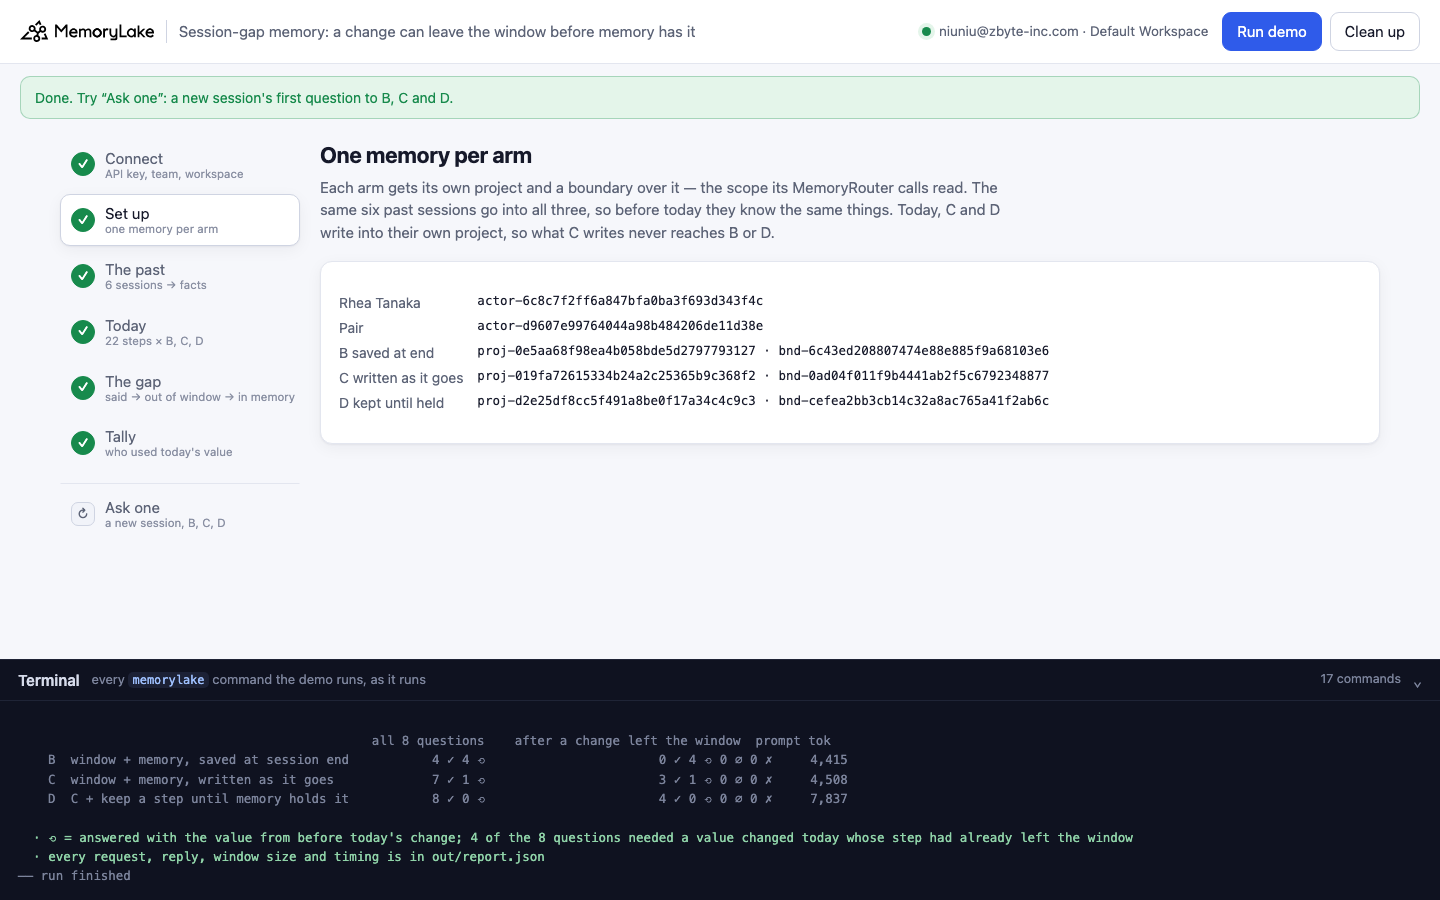
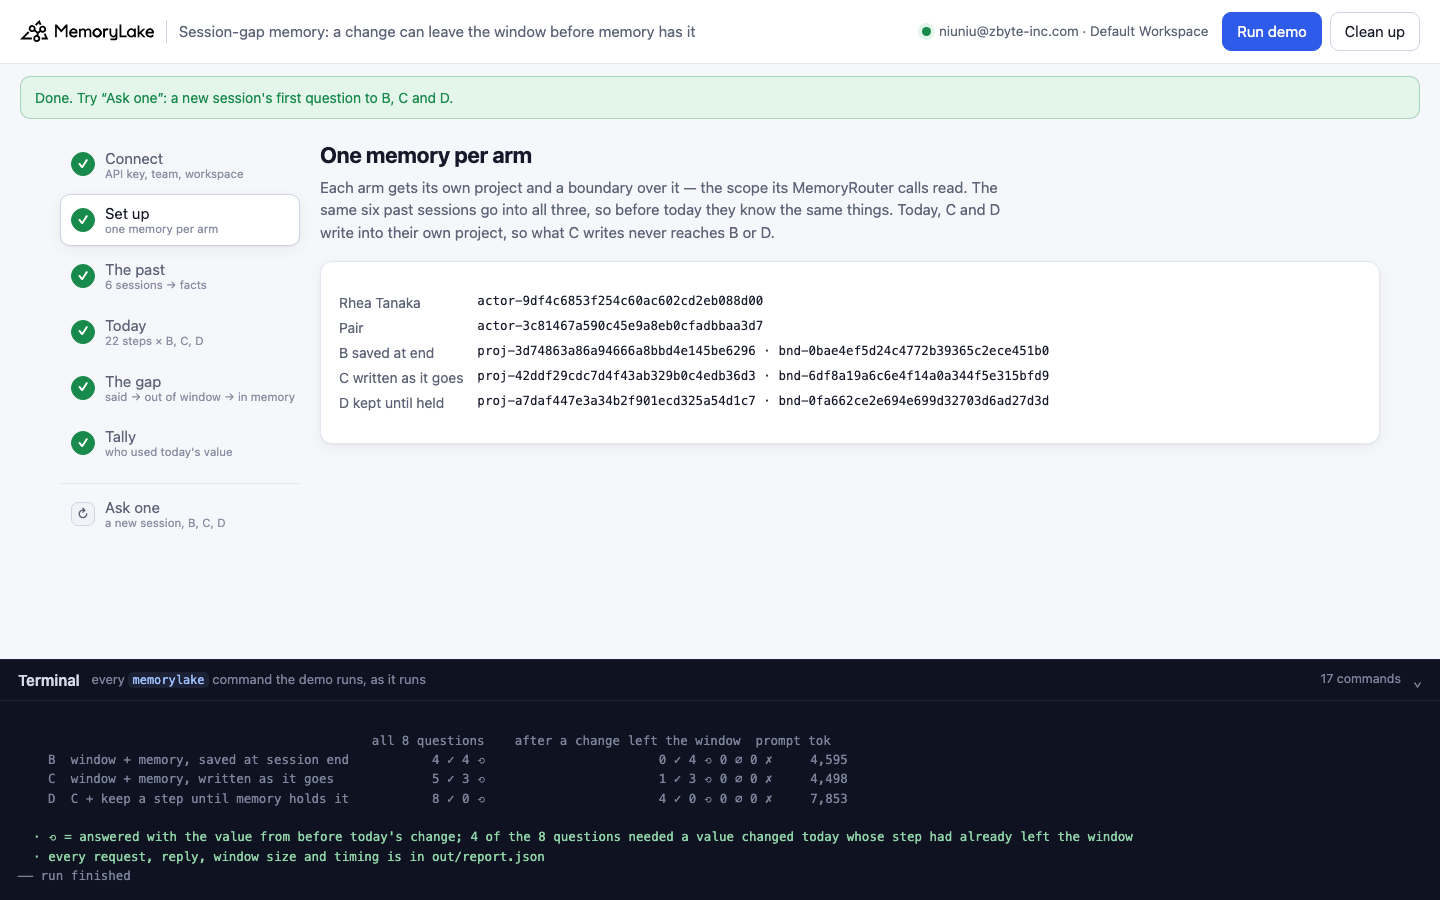
session-gap-memory: video links; measured over all 7 runs

diff --git a/session-gap-memory/README.md b/session-gap-memory/README.md
@@ -4,7 +4,8 @@ A runnable version of the MemoryLake use case
 [*Session Memory vs Persistent Memory: An Architectural Guide*](https://www.memorylake.ai/en/usecase/session-memory-vs-persistent-memory-for-ai),
 built entirely on the [`memorylake` CLI](https://github.com/memorylake-ai/memorylake-cli) (v20261015 or later).
 
-**Watch it run:** videos are being recorded.
+**Watch it run:** [CLI, 6:39](https://github.com/memorylake-ai/memorylake-usecases/releases/download/session-gap-memory-v1/session-gap-memory-cli-demo.mp4) · [Web, 7:14](https://github.com/memorylake-ai/memorylake-usecases/releases/download/session-gap-memory-v1/session-gap-memory-web-demo.mp4)
+([release](https://github.com/memorylake-ai/memorylake-usecases/releases/tag/session-gap-memory-v1); GitHub serves them as downloads). Both are real, unedited runs from a clean account and are counted in the Measured table below: in the CLI one extraction beat the window and C was right every time, in the Web one it did not.
 
 **The problem.** A common design keeps a short window of the current session in the prompt (session memory) and lets
 retrieval bring back everything older (persistent memory). It works for things agreed weeks ago. It breaks for things
@@ -43,10 +44,11 @@ asks each arm's memory directly (`fact list --query`) which value it holds at th
 each new value first shows up.
 
 <!-- measured-summary -->
-Over the 4 runs counted below, B answered all 16 questions about a change that had already left the window
-with the value from before the change. C got 11 of 16 right and 5 with the old value, depending on whether extraction
-beat the window that time (it reached C's memory between 10 s before and 35 s after the step left the window).
-D got all 16, carrying up to 15 extra steps and 1.55–1.74× C's prompt tokens.
+Over the 7 runs counted below, B answered all 28 questions about a change that had already left the window
+with the value from before the change. C got 20 of 28 right and 8 with the old value, depending on whether extraction
+beat the window that time (in the runs measured with the final reading rule, it reached C's memory between
+11 s before and 37 s after the step left the window).
+D got all 28, carrying up to 15 extra steps and 1.47–1.75× C's prompt tokens.
 <!-- /measured-summary -->
 
 ## What it shows
@@ -56,12 +58,13 @@ D got all 16, carrying up to 15 extra steps and 1.55–1.74× C's prompt tokens.
   agent uses it without hesitation: `5433`, `make test-ledger`, Tomasz Ilic.
 - **Saving at session end is wrong inside the session, every time.** B answered every question about a change that
   had left the window with the pre-change value. Its memory is right only for the next session.
-- **Writing as you go is a race.** C's memory picked up each change 15–35 seconds after it left the window in some
-  runs and before it in others. The same question got the old value at +37 s in one run and the new one in the
-  next. The demo prints, for each change, when it was said, when it left the window and when it reached memory.
+- **Writing as you go is a race.** In the Web recording each change reached C's memory 31–37 seconds after it left
+  the window, and C answered three of four such questions with the old value; in the CLI recording extraction was
+  faster than the window and C was right every time. The demo prints, for each change, when it was said, when it left
+  the window and when it reached memory.
 - **The fix is to drop from the window only what memory holds.** D was right on every question. The price is prompt
   size: `cook-status` is one flag for the whole conversation, and while an agent keeps appending it rarely reports
-  finished, so D carried up to 15 extra steps (1.55–1.74× C's prompt tokens over the session).
+  finished, so D carried up to 15 extra steps (1.47–1.75× C's prompt tokens over the session).
 - **Extraction revises facts the way they were written, not the way you think of them.** In one run D's memory
   held "the test command is `make test-ledger`, and it expects a local Postgres on port 5433" as one fact. Today's
   session revised it to port 6543 and left `make test-ledger` in it; the new command reached memory only through
@@ -181,6 +184,8 @@ answer them from memory.
 
 ### Step 5: the gap
 
+From the first run (its gap times are upper bounds, see ¹ under Measured):
+
 ```
     Each change: when Rhea said it, when it left the 6-step window, when it reached memory.
         change                                      said  left window  in C memory  in D memory   gap (C)
@@ -223,13 +228,21 @@ lost it first). "Past values" is how many of the seven agreed values step 3 foun
 
 | run | past values | B after the window | C after the window | D after the window | gap in C (s) | D's most extra steps | prompt tokens B · C · D |
 |---|---|---|---|---|---|---|---|
-| first run (built) | 7/7 | 0 ✓ · 4 ⟲ | 2 ✓ · 2 ⟲ | 4 ✓ · 0 ⟲ | +25.2 · +19.8 · +15.0 | 15 | 4,542 · 4,905 · 7,605 |
-| second run (B reused, C and D rebuilt) | 7/7 | 0 ✓ · 4 ⟲ | 2 ✓ · 2 ⟲ | 4 ✓ · 0 ⟲ | +35.2 · +29.7 · +24.9 | 15 | 4,511 · 4,872 · 7,549 |
-| `--reset` | 6/7 | 0 ✓ · 4 ⟲ | 4 ✓ · 0 ⟲ | 4 ✓ · 0 ⟲ | +6.7 · +0.4 · -0.4 | 15 | 4,446 · 4,731 · 7,512 |
-| browser check (built) | 7/7 | 0 ✓ · 4 ⟲ | 3 ✓ · 1 ⟲ | 4 ✓ · 0 ⟲ | -2.5 · -9.8 · +12.8 | 15 | 4,415 · 4,508 · 7,837 |
-| **total (4 runs)** | | **0 ✓ · 16 ⟲** | **11 ✓ · 5 ⟲** | **16 ✓ · 0 ⟲** | -10 to +35 | 15 | D = 1.55–1.74× C |
+| first run (built) | 7/7 | 0 ✓ · 4 ⟲ | 2 ✓ · 2 ⟲ | 4 ✓ · 0 ⟲ | +25.2 · +19.8 · +15.0¹ | 15 | 4,542 · 4,905 · 7,605 |
+| second run (B reused, C and D rebuilt) | 7/7 | 0 ✓ · 4 ⟲ | 2 ✓ · 2 ⟲ | 4 ✓ · 0 ⟲ | +35.2 · +29.7 · +24.9¹ | 15 | 4,511 · 4,872 · 7,549 |
+| `--reset` | 6/7 | 0 ✓ · 4 ⟲ | 4 ✓ · 0 ⟲ | 4 ✓ · 0 ⟲ | +6.7 · +0.4 · -0.4¹ | 15 | 4,446 · 4,731 · 7,512 |
+| browser check (built) | 7/7 | 0 ✓ · 4 ⟲ | 3 ✓ · 1 ⟲ | 4 ✓ · 0 ⟲ | -2.5 · -9.8 · +12.8¹ | 15 | 4,415 · 4,508 · 7,837 |
+| CLI recording, first take (not published) | 7/7 | 0 ✓ · 4 ⟲ | 4 ✓ · 0 ⟲ | 4 ✓ · 0 ⟲ | +4.5 · -0.7 · +92.7¹ | 15 | 4,460 · 4,799 · 7,675 |
+| CLI recording | 7/7 | 0 ✓ · 4 ⟲ | 4 ✓ · 0 ⟲ | 4 ✓ · 0 ⟲ | -5.7 · -10.7 · +4.0 | 15 | 4,516 · 4,973 · 7,321 |
+| Web recording | 6/7 | 0 ✓ · 4 ⟲ | 1 ✓ · 3 ⟲ | 4 ✓ · 0 ⟲ | +37.2 · +31.6 · +30.7 | 15 | 4,595 · 4,498 · 7,853 |
+| **total (7 runs)** | | **0 ✓ · 28 ⟲** | **20 ✓ · 8 ⟲** | **28 ✓ · 0 ⟲** | -11 to +37 (runs without ¹) | 15 | D = 1.47–1.75× C |
 
-On the other questions (the change still in the window, or a convention that did not change) all three arms were right in every run: all eight questions, B 16/32 · C 27/32 · D 32/32.
+¹ These runs read each fact by the first value it names, so a fact such as "Tomasz is on leave, so reviews go to
+Priya Nair" counted as the old reviewer. That rule can only see a new value late, never early: their gap times are
+upper bounds, and their "memory: old" labels may hide a fact that already had the new value. From the CLI recording on,
+a fact is read up to "previously" and counts as new if it names the new value at all. The grades do not depend on it.
+
+On the other questions (the change still in the window, or a convention that did not change) all three arms were right in every run: all eight questions, B 28/56 · C 48/56 · D 56/56.
 <!-- /measured-table -->
 
 ## Use it in your own app
@@ -253,7 +266,7 @@ On the other questions (the change still in the window, or a convention that did
 | `MemoryRouter refused the call for lack of balance` | Router calls are billed; the memory steps still ran. Top up in the console. |
 | `still extracting after 420 s` | Extraction is slow right now; the run continues and the value check says what is missing. |
 | An agreed value shows `·` in step 3 | Extraction left it out, or wrote it in another language (it happens); the check reads English only. That arm may still answer it. |
-| C gets everything right | Extraction beat the window this time. Run again: the race goes both ways (see Measured). |
+| C gets everything right | Extraction beat the window this time (it did in 3 of 7 runs). Run again: the race goes both ways (see Measured). |
 | A change shows `—` in "in C memory" | It had not reached memory within 180 s after the last step. |
 
 ## Files

diff --git a/README.md b/README.md
@@ -147,7 +147,7 @@ that memory can hold once it is more than coding sessions.
 | [ruled-out-memory](ruled-out-memory/) | Engineering (ReAct agent loops) | An investigation agent's ReAct loop rules out four suspects for a checkout latency incident, finds a lead, and runs out of steps; the next run asks memory what was already established. Stored as a text scratchpad, extraction kept the lead in all 8 runs and the four rule-outs 0 of 32 times; the resumed plan re-checked dead ends 26 times in 96 picks. One `fact add` record per iteration: 0 re-checks, but asked about suspects nobody checked, the model said "already ruled out" 29 of 47 times; one coverage record ("nothing else is ruled out") brought that to 0 of 48. | ~4 min | [CLI 5:59](https://github.com/memorylake-ai/memorylake-usecases/releases/download/ruled-out-memory-v1/ruled-out-memory-cli-demo.mp4) · [Web 6:14](https://github.com/memorylake-ai/memorylake-usecases/releases/download/ruled-out-memory-v1/ruled-out-memory-web-demo.mp4) |
 | [prompt-cache-memory](prompt-cache-memory/) | Engineering (agent cost at scale) | A support assistant sends the same 1,300-token playbook with every request plus what it remembers about the customer. Retrieved memory placed in front of the playbook (B) and after it (C): exactly the same tokens on 72 of 72 questions and the same accuracy, but C was read from the provider's prompt cache 70 of 72 times, and B only on repeats of a request sent minutes earlier (0 of 58 otherwise). Priced from `router models`: B 202, C 134, MemoryRouter `--boundary` 130 USD per million calls. | ~3 min | [CLI 4:35](https://github.com/memorylake-ai/memorylake-usecases/releases/download/prompt-cache-memory-v1/prompt-cache-memory-cli-demo.mp4) · [Web 5:00](https://github.com/memorylake-ai/memorylake-usecases/releases/download/prompt-cache-memory-v1/prompt-cache-memory-web-demo.mp4) |
 | [history-window-memory](history-window-memory/) | Engineering (token bloat from stuffed history) | A purchasing assistant's thread holds ten past sessions of supplier agreements; today's 16-turn session runs three ways. The whole thread in every request (A) is right 34 of 35 times and about 92% of it comes from the provider's prompt cache. Keeping only the last 6 turns (B), the usual fix, is right 0 of 35 times (24 "not on file", 11 made-up values such as a lot number and a CO2 account), and its cached tokens stay at the 1,024-token playbook on 47 of 50 turns because the window changes every request. The same window plus MemoryRouter `--boundary` over the extracted sessions (C) is right 35 of 35; per session A costs 1.5× C. | ~5 min | [CLI 7:58](https://github.com/memorylake-ai/memorylake-usecases/releases/download/history-window-memory-v1/history-window-memory-cli-demo.mp4) · [Web 8:27](https://github.com/memorylake-ai/memorylake-usecases/releases/download/history-window-memory-v1/history-window-memory-web-demo.mp4) |
-| [session-gap-memory](session-gap-memory/) | Engineering (session memory vs persistent memory) | A coding agent keeps the last 6 steps in its prompt and lets MemoryRouter `--boundary` attach the rest; the developer changes three conventions at the start of a fast 22-step session. Writing the session to memory when it closes (B) answers all 16 questions asked after a change left the window with the pre-change value (port 5433, `make test-ledger`, the old reviewer). Writing each step as it happens (C) is a race with extraction: 11 of 16 right. Dropping a step from the window only once `conv cook-status` says memory holds it (D) is right 16 of 16, at 1.55–1.74× C's prompt tokens. | ~6 min | recording |
+| [session-gap-memory](session-gap-memory/) | Engineering (session memory vs persistent memory) | A coding agent keeps the last 6 steps in its prompt and lets MemoryRouter `--boundary` attach the rest; the developer changes three conventions at the start of a fast 22-step session. Writing the session to memory when it closes (B) answers all 28 questions asked after a change left the window with the pre-change value (port 5433, `make test-ledger`, the old reviewer). Writing each step as it happens (C) races extraction: 20 of 28 right. Dropping a step from the window only once `conv cook-status` says memory holds it (D) is right 28 of 28, at 1.47–1.75× C's prompt tokens. | ~6 min | [CLI 6:39](https://github.com/memorylake-ai/memorylake-usecases/releases/download/session-gap-memory-v1/session-gap-memory-cli-demo.mp4) · [Web 7:14](https://github.com/memorylake-ai/memorylake-usecases/releases/download/session-gap-memory-v1/session-gap-memory-web-demo.mp4) |
 
 The videos are real, unedited recordings; every asset lives on the [releases page](https://github.com/memorylake-ai/memorylake-usecases/releases).
 
